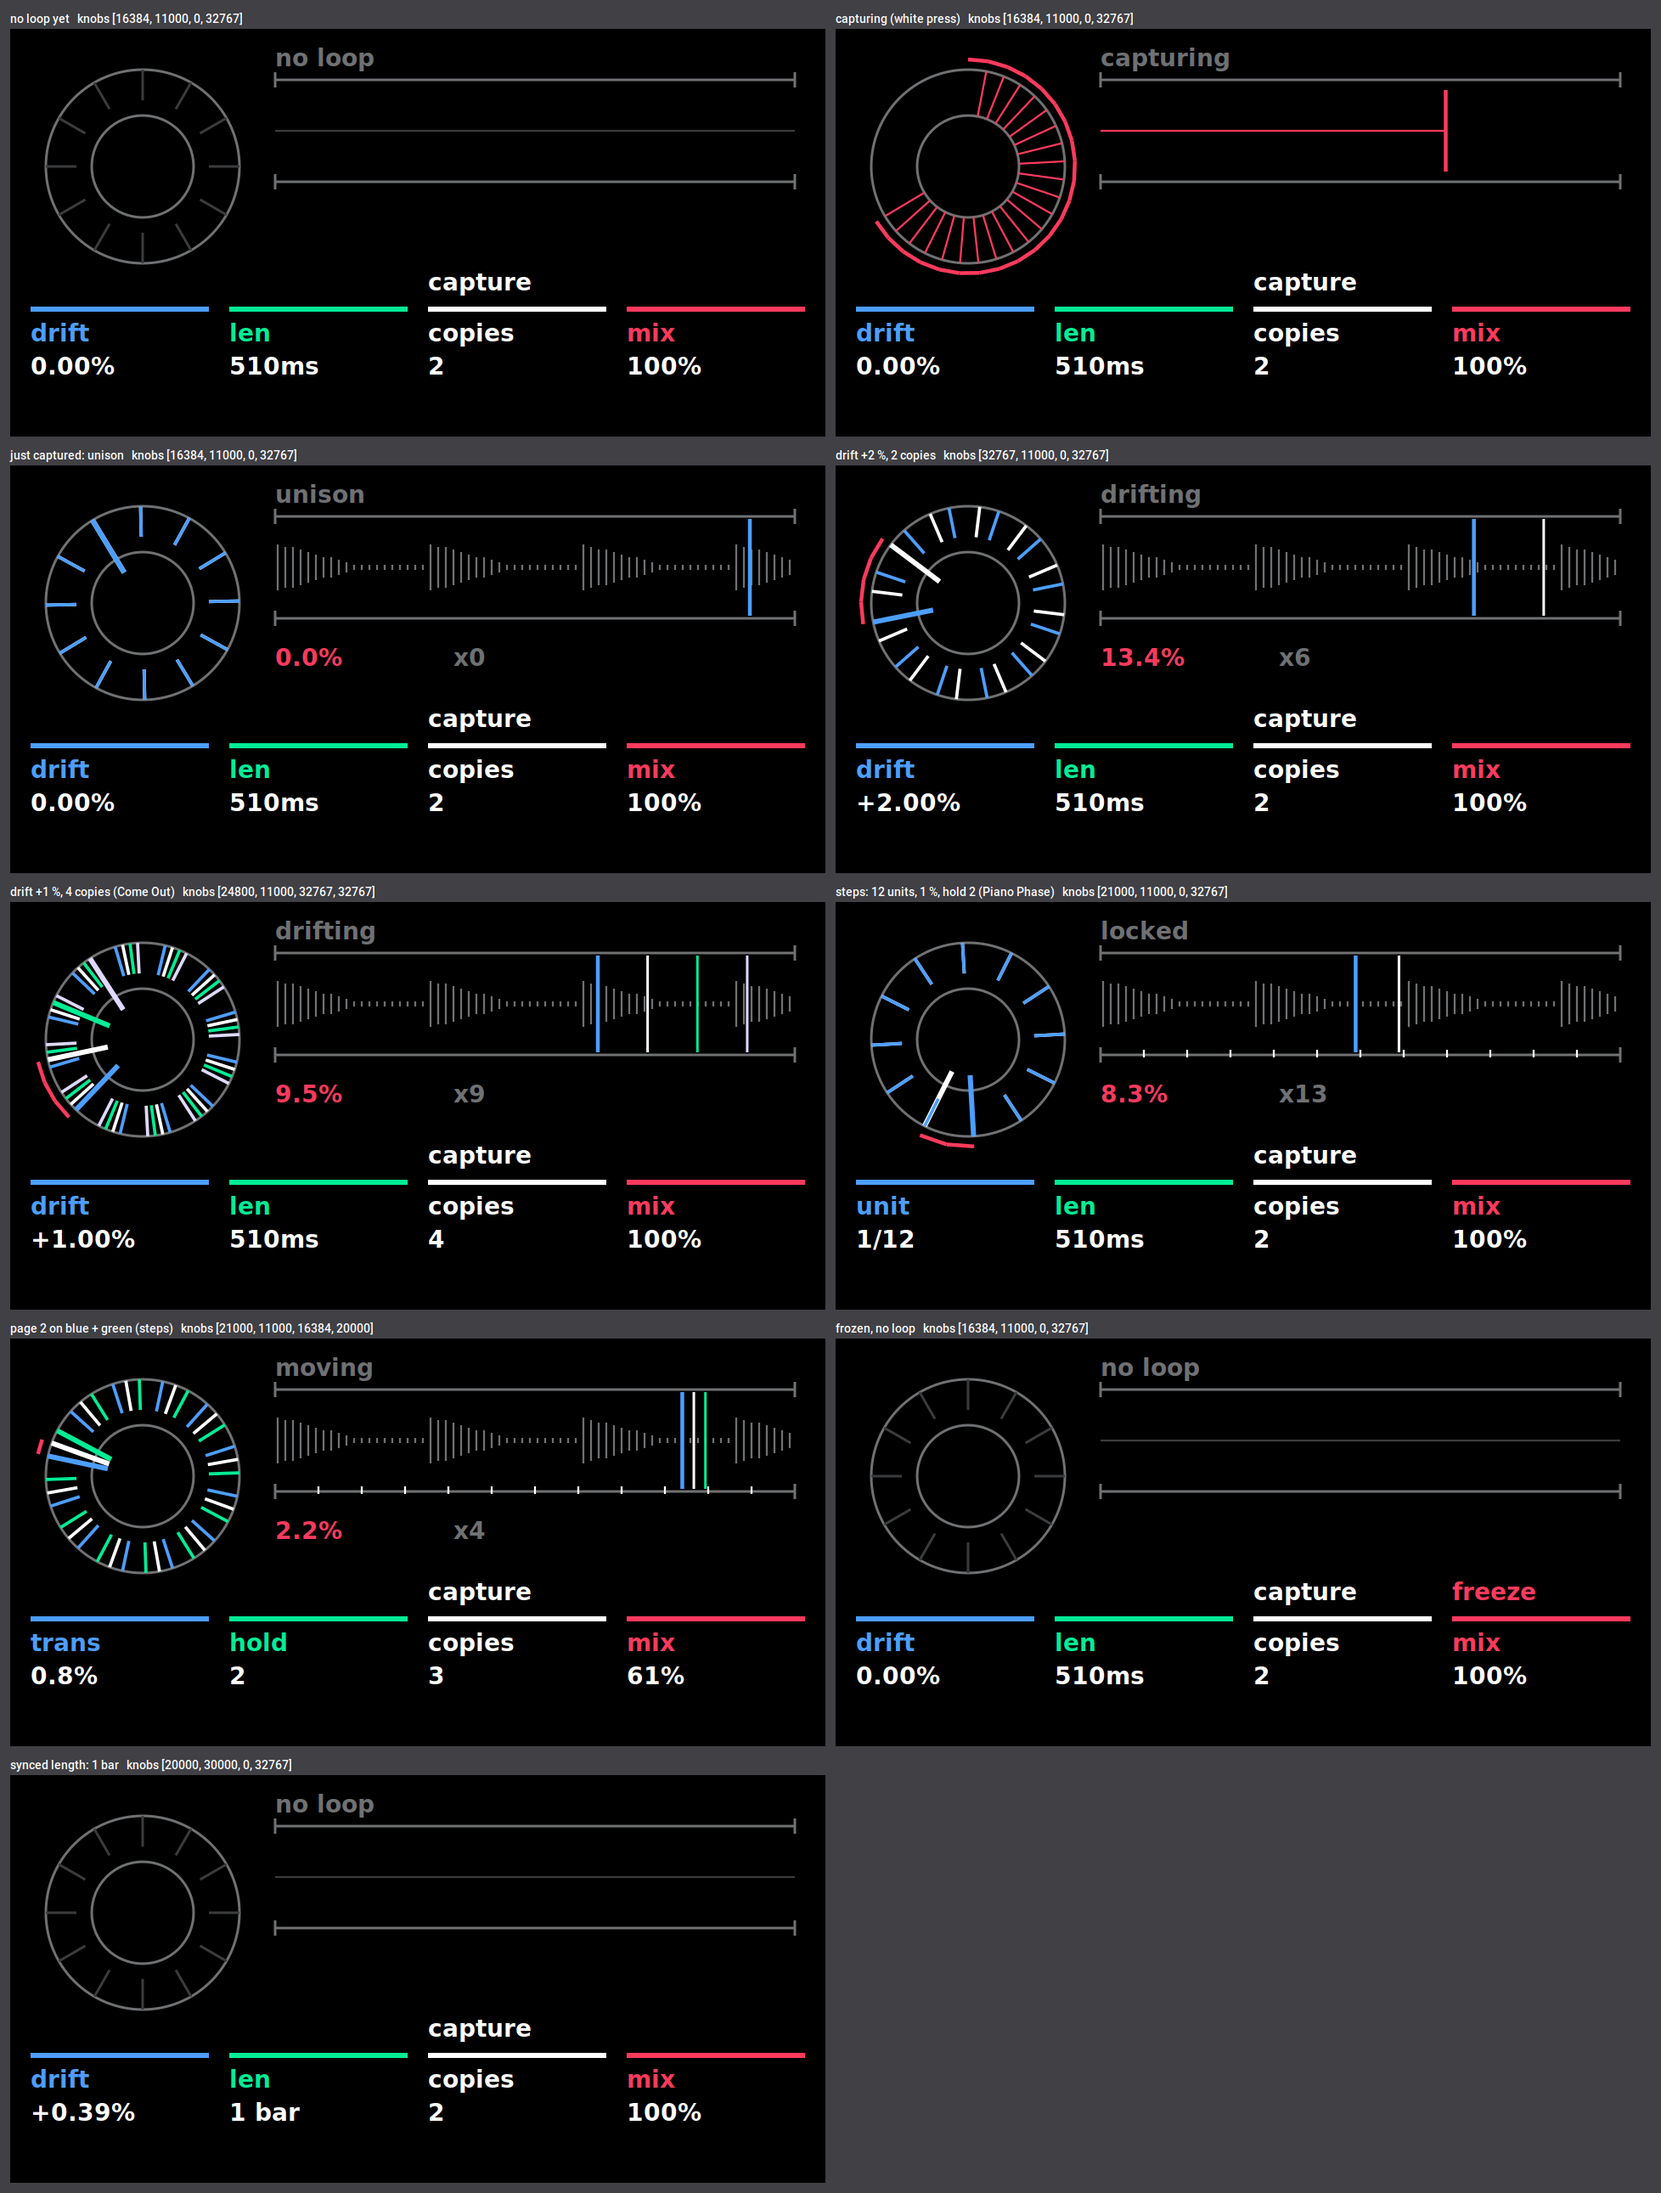
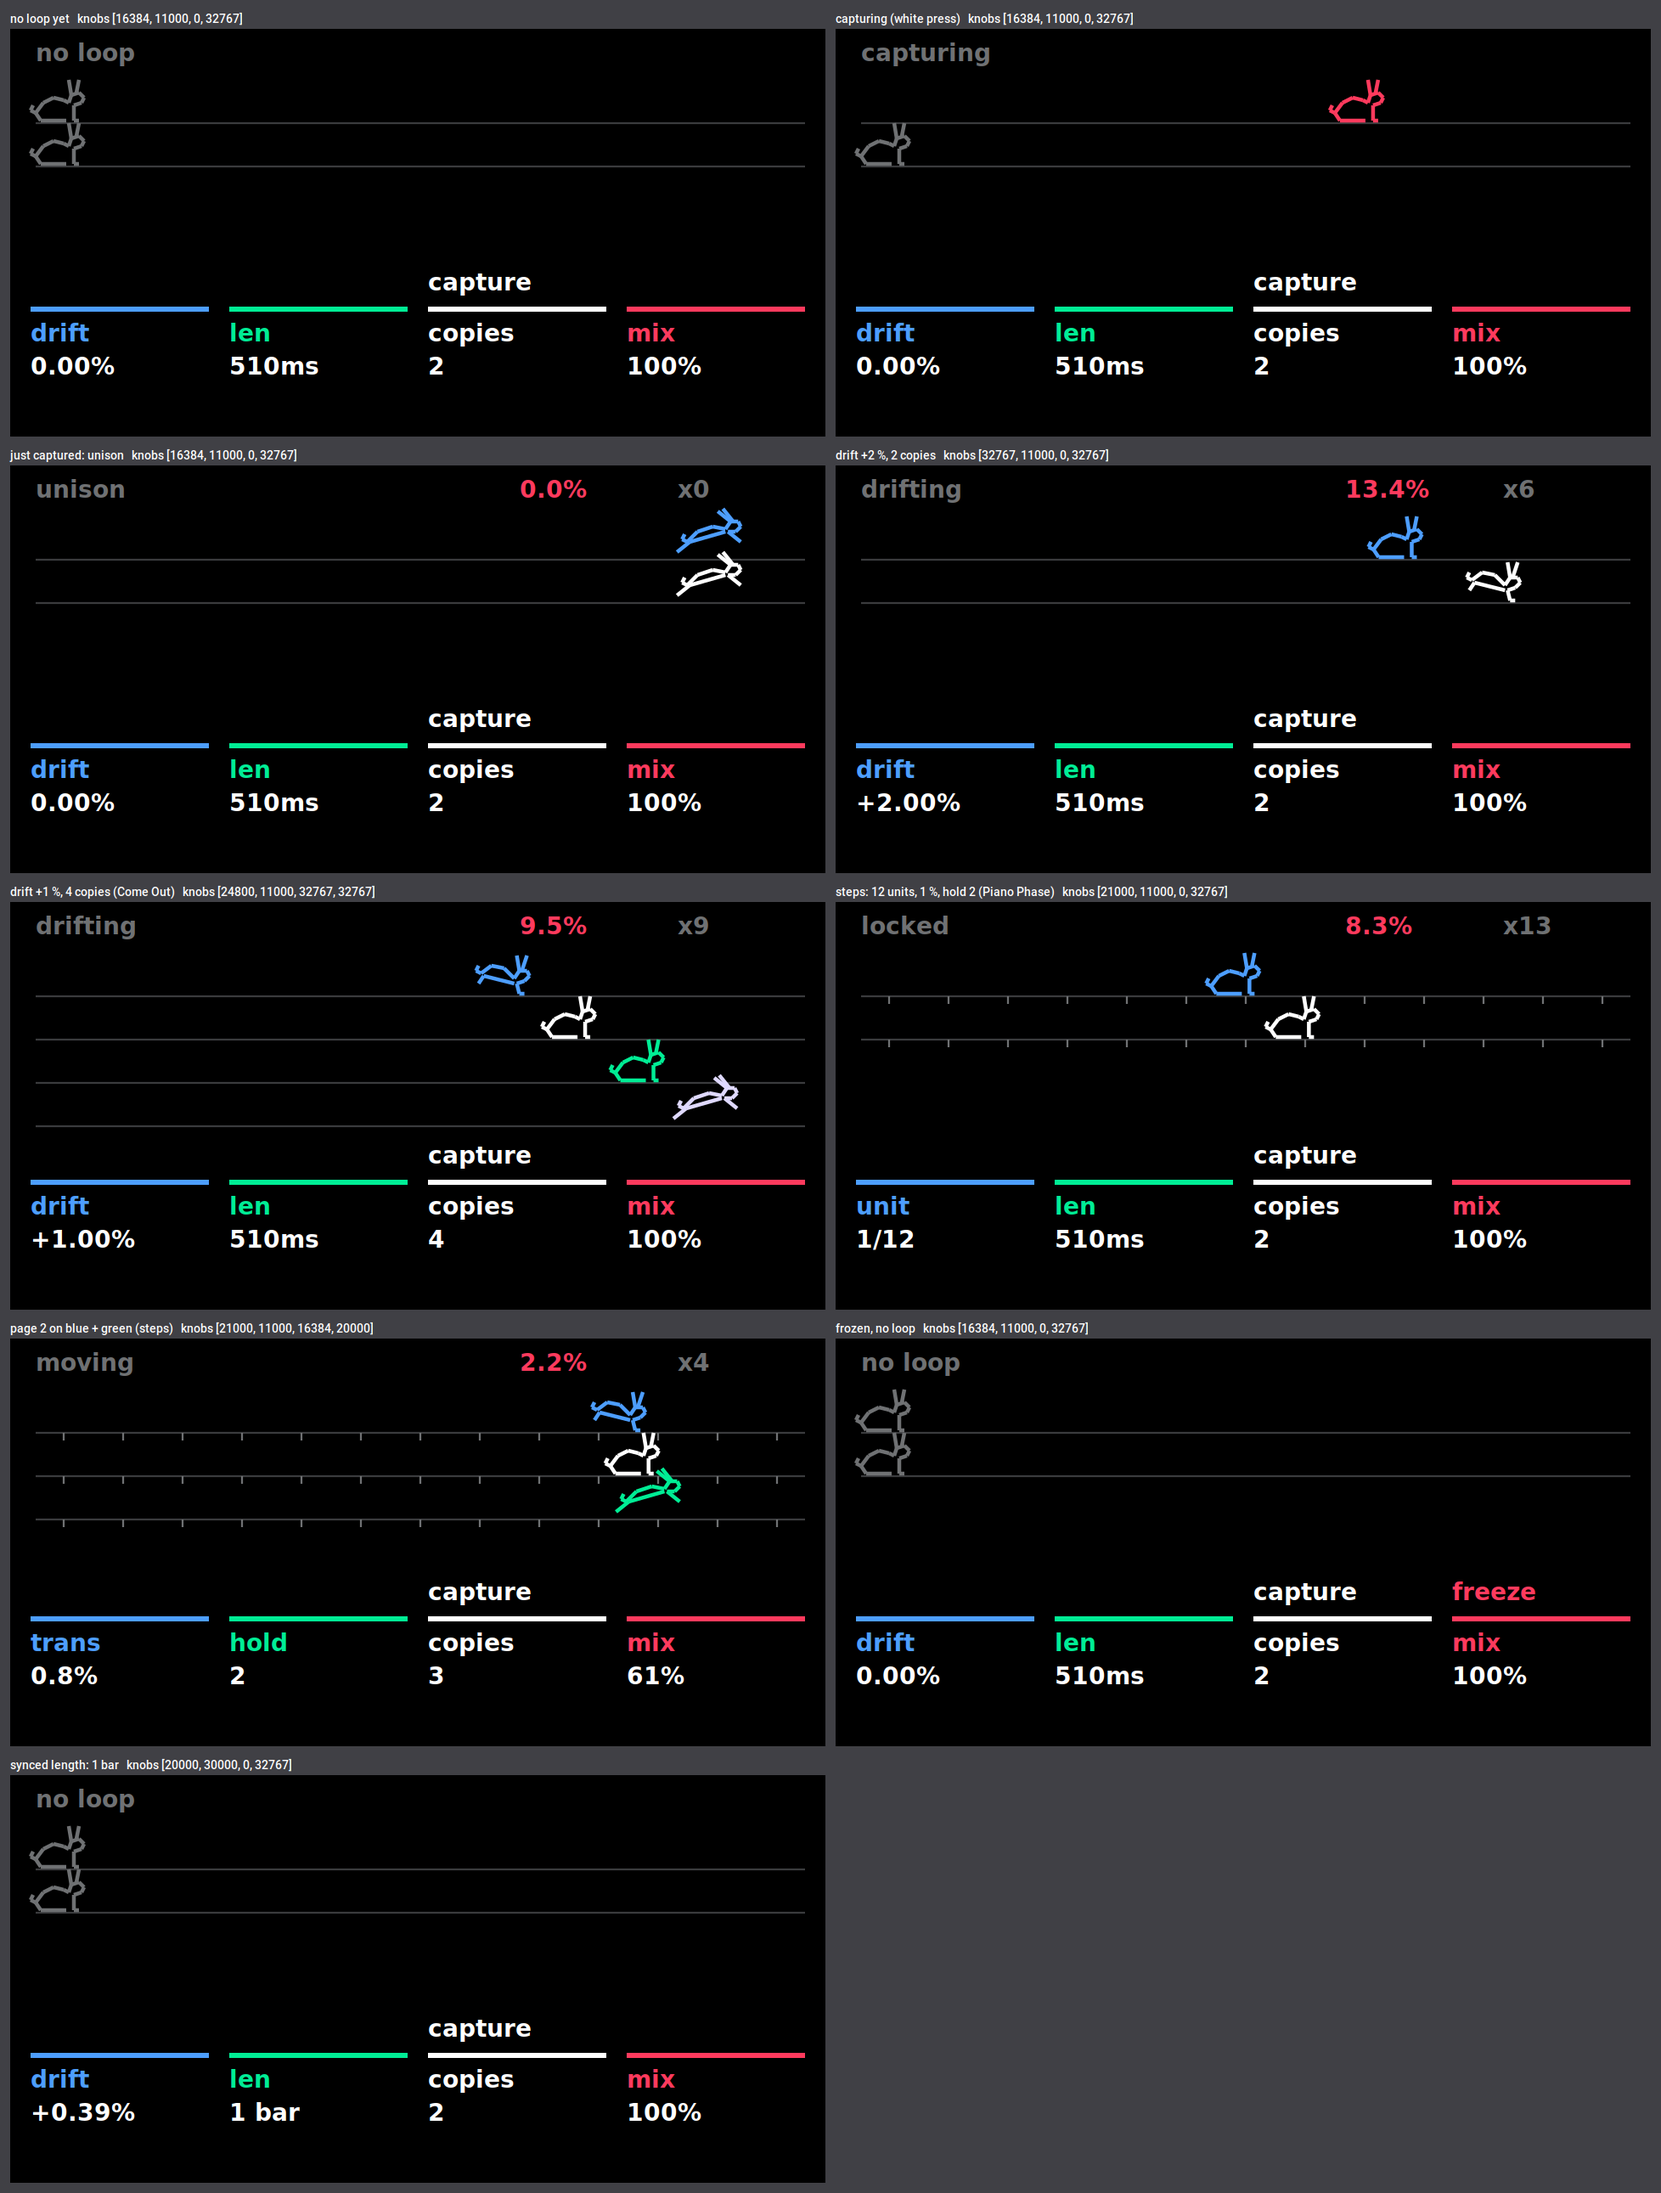
steve screen: rabbits instead of the disc and waveform: one per copy on its lane at the copy's playhead, 3-frame hop (crouch, leap, land) following the distance run; unit ticks on the ground in steps mode; capture: A runs in red

diff --git a/synth_sdk/plugins/steve/steve.c b/synth_sdk/plugins/steve/steve.c
@@ -101,26 +101,21 @@ const op1_fx_t FX_steve = { sv_init, sv_render, { OP1_PRESS_PAGE, OP1_PRESS_PAGE
                             sv_render_stereo };
 
 /* ======================= screen (GUI thread) =======================
- * steve.svg: the disc's rings and the waveform strip's frame. Drawn here: the copies as spokes on the disc (one spoke
- * per unit, each set turning with its copy: in unison they cover each other, drifting they fan into a moire, in steps
- * mode they lock onto each other), the offset arc between A and B, the loop's waveform with a playhead per copy, the
- * capture filling the disc; texts in the stock font (bottom row as granular / sampler+). */
+ * steve.svg is empty. Drawn here: one rabbit per copy, each on its lane, hopping from left to right at its copy's
+ * playhead (3 frames, the hop follows the distance run: a faster copy hops ahead); unit ticks on the ground in steps
+ * mode; while capturing A runs along in red. Texts in the stock font: state, offset, loops; bottom row as granular. */
 #ifndef OP1_HOST
 #pragma GCC optimize ("Os")
 #endif
 #include "op1_synth.h"
 #define Q(v)  ((v) << 10)
 #define TS    12
-#define CX    52
-#define CY    54
-#define R_IN  20
-#define R_OUT 38
-#define R_ARC 42
-#define WX0   104
-#define WX1   308
-#define WYC   40
-#define WH    16
-#define NCOL  68                                            /* waveform columns, 3 px each */
+#define X0      10                                           /* rabbits: left end of the run, px */
+#define X1      290                                          /* right end (the rabbit's nose ends at X1 + RW) */
+#define RW      22                                           /* rabbit width */
+#define HOP     7                                            /* px run per animation frame */
+#define LANE_Y0 36                                           /* ground of lane 0 (A); lanes 16 px apart */
+#define LANE_DY 17
 
 static const uint8_t c_blue[4] = { 0x4D, 0x9E, 0xFF, 0xFF }, c_green[4] = { 0x00, 0xED, 0x95, 0xFF },
                      c_white[4] = { 0xFF, 0xFF, 0xFF, 0xFF }, c_red[4] = { 0xFF, 0x3A, 0x5D, 0xFF },
@@ -131,9 +126,7 @@ static const uint8_t *const copy_col[ST_COPIES] = { c_blue, c_white, c_green, c_
 enum { TX_LAB, TX_VAL = 4, TX_PRS = 8, TX_OFS = 10, TX_LOOPS, TX_STATE, TX_N };
 static uint32_t tx[TX_N][OP1_TEXT_SIZE / 4];
 static char shown[TX_N][14];
-static uint8_t tx_made, peak[NCOL];
-static uint32_t peak_take = ~0u;
-static int16_t peak_pos = -1;
+static uint8_t tx_made;
 
 static void ln(void *r, int32_t x0, int32_t y0, int32_t x1, int32_t y1, int32_t w, const uint8_t *c)
 {
@@ -173,12 +166,19 @@ static void len_text(char *s, int32_t v, int32_t cap)
         if (ms < 1000) put(num(s, ms, 0), "ms"); else put(num(s, ms / 10, 2), "s");
     }
 }
-/* a point on the disc: angle a (8192 a turn, 0 = up, clockwise), radius r px -> Q10 */
-static inline int32_t dx(int32_t a, int32_t r) { return Q(CX) + (Q(r) * OP1_SINE_TABLE[a & 8191] >> 15); }
-static inline int32_t dy(int32_t a, int32_t r) { return Q(CY) - (Q(r) * OP1_SINE_TABLE[(a + 2048) & 8191] >> 15); }
-static int32_t angle(const st_t *s, int k)                  /* copy k's playhead, 8192 a turn */
+/* the rabbit, facing right, 3 frames (crouch, leap, land): polylines in px relative to its tail on the ground,
+ * y up negative; -128 ends a polyline, -127 the frame */
+static const int8_t rabbit_pts[3][64] = {
+    { 2, 0, 0, -3, 3, -7, 7, -9, 11, -8, 13, -7, -128, 13, -7, 14, -10, 17, -11, 19, -9, 18, -7, 15, -6, -128, 14, -10, 13, -16, -128, 16, -11, 17, -16, -128, 15, -6, 15, 0, 17, 0, -128, 2, 0, 12, 0, -128, 0, -3, -2, -4, -1, -6, -128, -127 },   /* crouch: sitting */
+    { 0, -6, 4, -10, 10, -12, 15, -11, -128, 15, -11, 17, -14, 20, -14, 21, -12, 19, -10, 16, -10, -128, 17, -14, 12, -18, -128, 18, -14, 14, -19, -128, 16, -10, 21, -6, -128, 1, -6, -4, -2, -128, 1, -6, 15, -10, -128, 0, -6, -2, -7, -1, -9, -128, -127 },   /* leap: stretched, off the ground */
+    { 1, -8, 5, -11, 10, -10, 14, -6, -128, 14, -6, 16, -9, 19, -9, 20, -7, 18, -5, 15, -4, -128, 16, -9, 15, -15, -128, 17, -9, 19, -15, -128, 15, -4, 16, 0, 18, 0, -128, 2, -7, 0, -4, -128, 2, -7, 14, -4, -128, 1, -8, -1, -9, 0, -11, -128, -127 },   /* land: front paws down */ };
+static void rabbit(void *r, int32_t x, int32_t y, int f, const uint8_t *c)
 {
-    return s->len > 0 ? (int32_t)(((uint64_t)s->p[k].i << 13) / (uint32_t)s->len) : 0;
+    const int8_t *p = rabbit_pts[f];
+    while (*p != -127) {
+        while (p[2] != -128) { ln(r, x + p[0] * 1024, y + p[1] * 1024, x + p[2] * 1024, y + p[3] * 1024, 0x600, c); p += 2; }
+        p += 3;
+    }
 }
 
 static void sv_screen_init(void *scr) { (void)scr; }
@@ -199,9 +199,9 @@ static void sv_screen_update(void *scr, int dt)
         }
         op1_text_ctor(tx[TX_PRS], Q(8 + 78 * 2), 94, TS, c_white);
         op1_text_ctor(tx[TX_PRS + 1], Q(8 + 78 * 3), 94, TS, c_red);
-        op1_text_ctor(tx[TX_OFS], Q(WX0), 70, TS, c_red);
-        op1_text_ctor(tx[TX_LOOPS], Q(WX0 + 70), 70, TS, c_grey);
-        op1_text_ctor(tx[TX_STATE], Q(WX0), 6, TS, c_grey);
+        op1_text_ctor(tx[TX_STATE], Q(X0), 4, TS, c_grey);
+        op1_text_ctor(tx[TX_OFS], Q(200), 4, TS, c_red);
+        op1_text_ctor(tx[TX_LOOPS], Q(262), 4, TS, c_grey);
         tx_made = 1;
     }
     op1_screen_draw(scr, dt);
@@ -210,66 +210,26 @@ static void sv_screen_update(void *scr, int dt)
     for (int i = 0; i < 3; i++) page[i] = op1_fx_page[pos][i] != 0;
     int32_t cap = s->cap - ST_XF - 2;
 
-    /* the disc: one set of spokes per copy */
-    int nsp = steps ? q.div : 12;
-    if (s->state == ST_PLAY || (s->len && s->state != ST_CAPTURE)) {
-        for (int c = copies - 1; c >= 0; c--) {             /* A last: on top */
-            int32_t a0 = angle(s, c);
-            for (int i = 0; i < nsp; i++) {
-                int32_t a = a0 + i * 8192 / nsp;
-                int32_t r0 = i ? R_IN + 6 : R_IN - 6;           /* the spoke at the playhead reaches further in */
-                ln(r, dx(a, r0), dy(a, r0), dx(a, R_OUT), dy(a, R_OUT), i ? 0x500 : 0x800, copy_col[c]);
+    /* the rabbits: one per copy, hopping left to right along its lane at the copy's playhead */
+    for (int c = 0; c < copies; c++) {
+        int32_t gy = LANE_Y0 + LANE_DY * c;
+        ln(r, Q(X0), Q(gy + 1), Q(X1 + RW), Q(gy + 1), 0x300, c_dim);         /* the ground */
+        if (steps && s->len)                                                   /* the units */
+            for (int i = 0; i <= q.div; i++) {
+                int32_t x = Q(X0 + RW / 2) + Q(X1 - X0) * i / q.div;
+                ln(r, x, Q(gy + 1), x, Q(gy + 4), 0x300, c_grey);
             }
-        }
-        int32_t a = angle(s, 0), o = (int32_t)((uint64_t)st_offset(s, 1) * 8192 / (uint32_t)s->len);
-        int segs = 1 + o * 24 / 8192;                       /* the offset arc, A -> B, up to 24 segments */
-        for (int i = 0; i < segs && o > 16; i++) {
-            int32_t b0 = a + o * i / segs, b1 = a + o * (i + 1) / segs;
-            ln(r, dx(b0, R_ARC), dy(b0, R_ARC), dx(b1, R_ARC), dy(b1, R_ARC), 0x600, c_red);
-        }
-    } else if (s->state == ST_CAPTURE) {                    /* capture: the ring fills, red */
-        int32_t f = (int32_t)((int64_t)s->wp * 8192 / (s->want + ST_XF + 1));
-        int segs = 1 + f * 32 / 8192;
-        for (int i = 0; i < segs; i++) {
-            int32_t b0 = f * i / segs, b1 = f * (i + 1) / segs;
-            ln(r, dx(b0, R_ARC), dy(b0, R_ARC), dx(b1, R_ARC), dy(b1, R_ARC), 0x600, c_red);
-            ln(r, dx(b1, R_IN), dy(b1, R_IN), dx(b1, R_OUT), dy(b1, R_OUT), 0x300, c_red);
-        }
-    } else {                                                /* empty / armed: the idle spokes, grey */
-        for (int i = 0; i < nsp; i++) {
-            int32_t a = i * 8192 / nsp;
-            ln(r, dx(a, R_IN + 6), dy(a, R_IN + 6), dx(a, R_OUT), dy(a, R_OUT), 0x400, s->state == ST_ARMED ? c_red : c_dim);
-        }
+        int32_t x, f = 0;
+        const uint8_t *col = copy_col[c];
+        if (s->state == ST_PLAY) {
+            x = Q(X0) + (int32_t)((int64_t)Q(X1 - X0) * s->p[c].i / s->len);
+            f = (x >> 10) / HOP % 3;                                           /* the hop follows the distance run */
+        } else if (s->state == ST_CAPTURE && c == 0) {                         /* capturing: A runs along, red */
+            x = Q(X0) + (int32_t)((int64_t)Q(X1 - X0) * s->wp / (s->want + ST_XF + 1));
+            f = (x >> 10) / HOP % 3; col = c_red;
+        } else { x = Q(X0); col = s->state == ST_ARMED ? c_red : c_grey; }    /* sitting at the start */
+        rabbit(r, x, Q(gy), f, col);
     }
-
-    /* the waveform strip: the loop and a playhead per copy */
-    if (s->len && (s->takes != peak_take || peak_pos != pos)) {   /* new loop: its peaks, once */
-        peak_take = s->takes; peak_pos = (int16_t)pos;
-        for (int c = 0; c < NCOL; c++) {
-            int32_t a = s->len * c / NCOL, b = s->len * (c + 1) / NCOL, m = 0;
-            for (int32_t i = a; i < b; i += 16) { int32_t v = s->buf[i] < 0 ? -s->buf[i] : s->buf[i]; if (v > m) m = v; }
-            peak[c] = (uint8_t)(m * WH >> 15);
-        }
-    }
-    if (s->len && s->state != ST_CAPTURE) {
-        for (int c = 0; c < NCOL; c++) {
-            int32_t h = peak[c] ? peak[c] : 1, x = Q(WX0 + 3 * c + 1);
-            ln(r, x, Q(WYC - h), x, Q(WYC + h), 0x300, c_grey);
-        }
-        if (steps)                                          /* the unit grid */
-            for (int i = 1; i < q.div; i++) {
-                int32_t x = Q(WX0) + Q(WX1 - WX0) * i / q.div;
-                ln(r, x, Q(WYC + WH + 2), x, Q(WYC + WH + 5), 0x300, c_white);
-            }
-        for (int c = copies - 1; c >= 0; c--) {
-            int32_t x = Q(WX0) + (int32_t)((int64_t)Q(WX1 - WX0) * s->p[c].i / s->len);
-            ln(r, x, Q(WYC - WH - 3), x, Q(WYC + WH + 3), c ? 0x400 : 0x600, copy_col[c]);
-        }
-    } else if (s->state == ST_CAPTURE) {                    /* the capture so far, live */
-        int32_t x = Q(WX0) + (int32_t)((int64_t)Q(WX1 - WX0) * s->wp / (s->want + ST_XF + 1));
-        ln(r, Q(WX0), Q(WYC), x, Q(WYC), 0x300, c_red);
-        ln(r, x, Q(WYC - WH), x, Q(WYC + WH), 0x600, c_red);
-    } else ln(r, Q(WX0), Q(WYC), Q(WX1), Q(WYC), 0x300, c_dim);
 
     /* offset and loops */
     char v[16];
